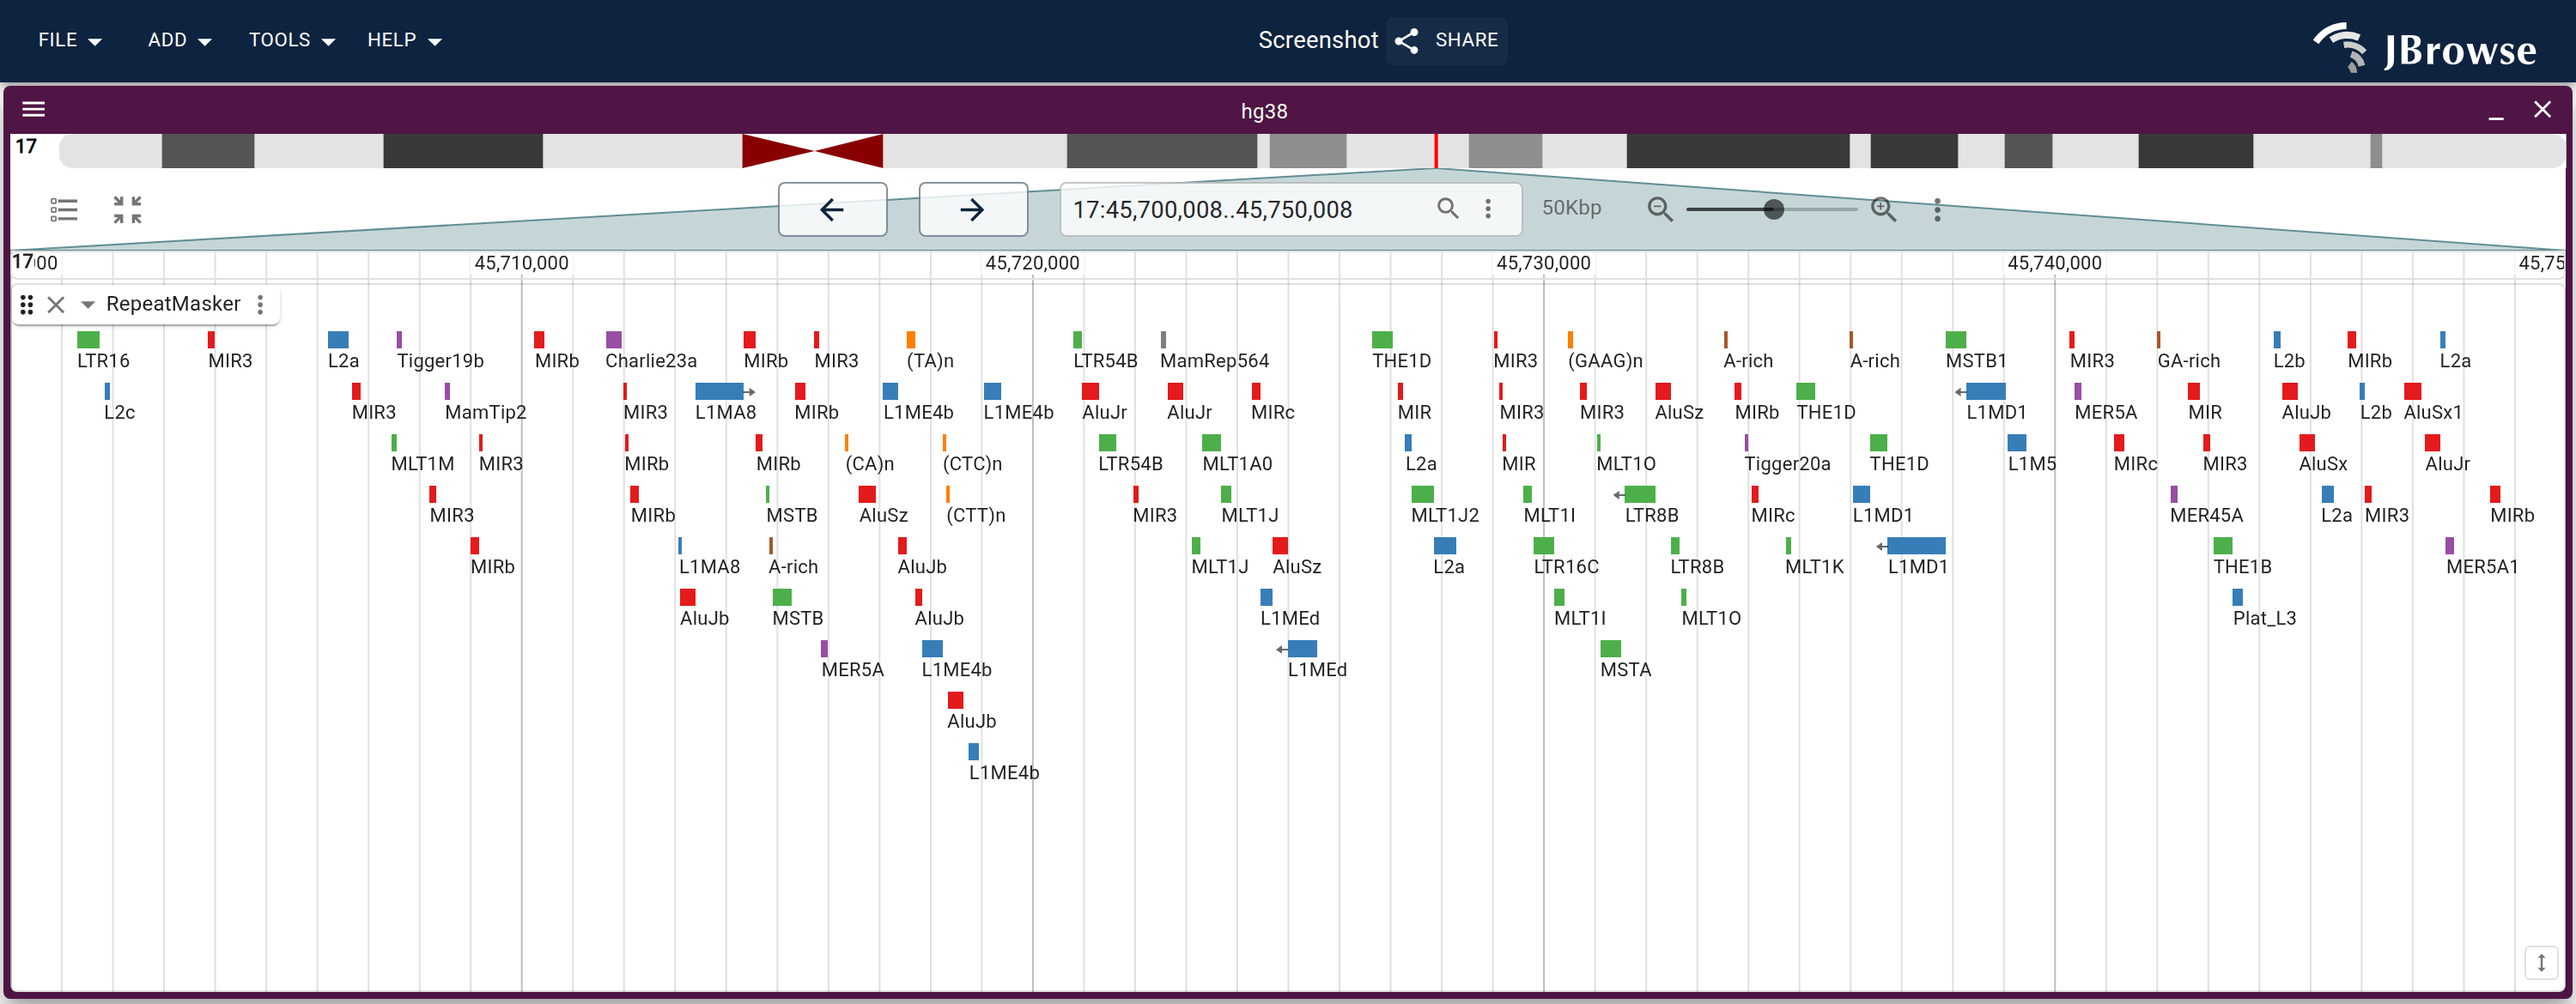
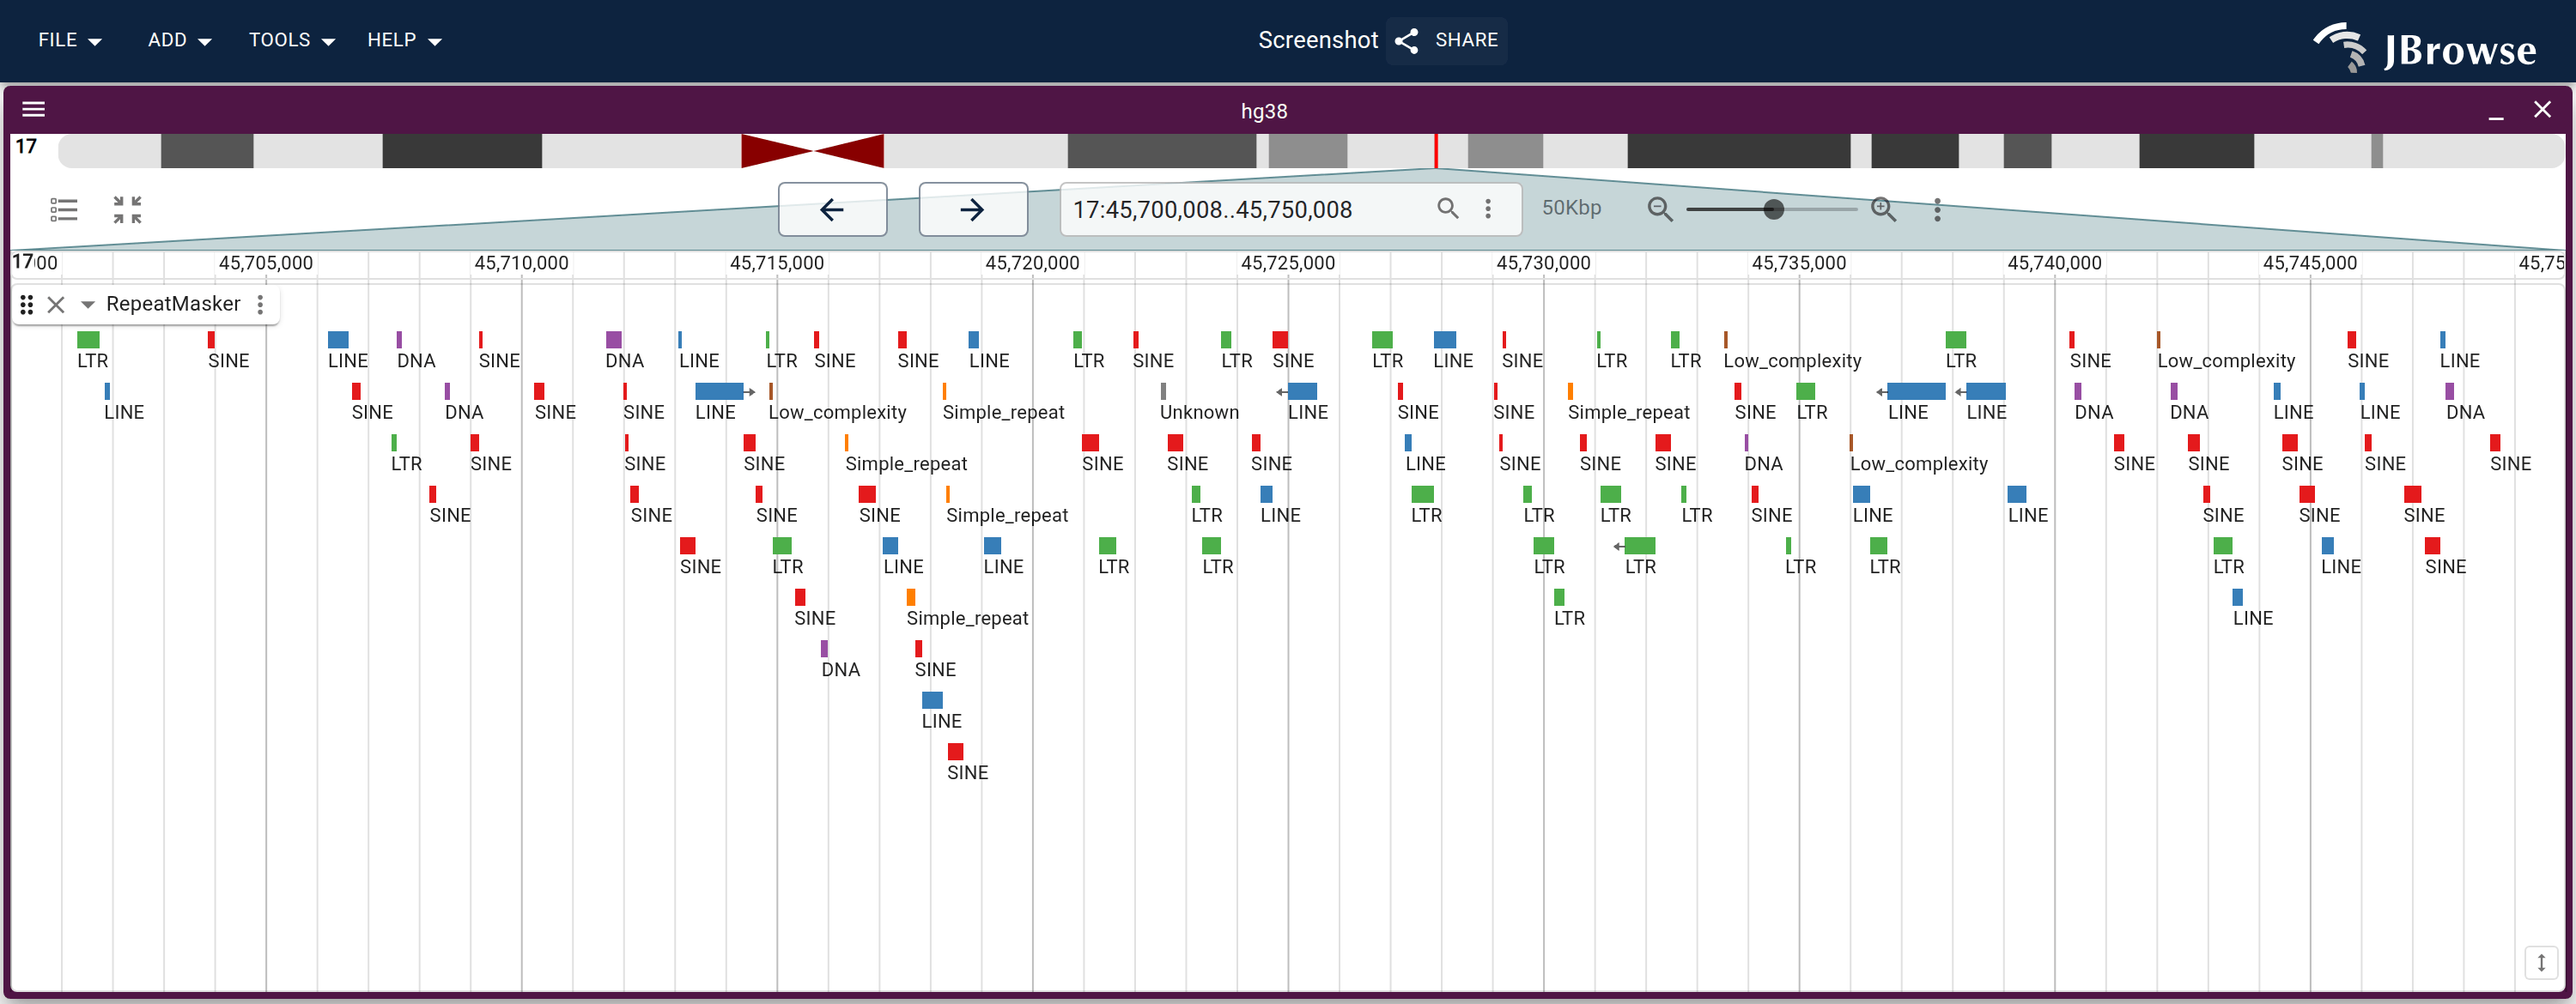
docs(figures): make the color-by-category recipe figure its own legend
Reviewer on cookbook_color_by_type: "unclear what the coloring is. need
legend". Nothing draws a key for a jexl color callback, and an overlay
legend would be six swatches hand-placed over a layout that moves, so
each feature is labeled with the field the color is keyed on
(labels.name = repClass): every red block reads SINE, every blue LINE,
green LTR, purple DNA, orange Simple_repeat, brown Low_complexity, grey
Unknown. The repeat family names it replaces (AluJb, MIR3, L2a) are the
detail the recipe is not about, and are still in the feature details.

The display config had to move onto the track's own displays entry. The
spec form routes an inline key on the view's tracks entry onto the
display config only when isConfigurationSlot says so, and labels is a
sub-schema rather than a leaf slot, so written there it was dropped in
silence — the first regen came back unchanged.

Claude-Session: https://claude.ai/code/session_01TcfdgrcPWPN7HSGHfcRjTg

diff --git a/website/src/lib/galleryLinks.generated.ts b/website/src/lib/galleryLinks.generated.ts
@@ -284,6 +284,6 @@ export const specSessionUrls: Record<string, string> = {
   "pangenome/rgfa_launch_out_menu": "?config=test_data/graphgenomeview/ecoli_pangenome.json&session=spec-%7B%22views%22%3A%5B%7B%22id%22%3A%22launch_out_graph%22%2C%22type%22%3A%22GraphGenomeView%22%2C%22loadedTrackId%22%3A%22ecoli_minigraph_segments%22%2C%22loadedRegion%22%3A%7B%22refName%22%3A%22chr%22%2C%22assemblyName%22%3A%22K12%22%2C%22start%22%3A4400000%2C%22end%22%3A4450000%7D%2C%22layoutMode%22%3A%22force%22%2C%22colorScheme%22%3A%22stable-rank%22%7D%5D%7D&sessionName=Screenshot",
   "pangenome/rgfa_strain_launch": "?config=test_data/graphgenomeview/ecoli_pangenome.json&session=spec-%7B%22views%22%3A%5B%7B%22id%22%3A%22pks_graph%22%2C%22type%22%3A%22GraphGenomeView%22%2C%22loadedTrackId%22%3A%22ecoli_minigraph_segments%22%2C%22loadedRegion%22%3A%7B%22refName%22%3A%22chr%22%2C%22assemblyName%22%3A%22K12%22%2C%22start%22%3A2056000%2C%22end%22%3A2064000%7D%2C%22layoutMode%22%3A%22force%22%2C%22colorScheme%22%3A%22stable-rank%22%7D%5D%7D&sessionName=Screenshot",
   "cookbook_color_by_strand": "?config=test_data/config_demo.json&session=spec-%7B%22views%22%3A%5B%7B%22type%22%3A%22LinearGenomeView%22%2C%22assembly%22%3A%22hg38%22%2C%22loc%22%3A%22chr17%3A7%2C400%2C000-7%2C700%2C000%22%2C%22tracks%22%3A%5B%7B%22trackId%22%3A%22ncbi_refseq_109_hg38%22%2C%22height%22%3A260%2C%22color%22%3A%22jexl%3Afeature.strand%3D%3D1%3F'%231f77b4'%3A'%23d62728'%22%7D%5D%7D%5D%7D&sessionName=Screenshot",
-  "cookbook_color_by_type": "?config=test_data/config_demo.json&session=spec-%7B%22sessionTracks%22%3A%5B%7B%22type%22%3A%22FeatureTrack%22%2C%22trackId%22%3A%22rmsk_hg38_ucsc%22%2C%22name%22%3A%22RepeatMasker%22%2C%22assemblyNames%22%3A%5B%22hg38%22%5D%2C%22adapter%22%3A%7B%22type%22%3A%22BedTabixAdapter%22%2C%22bedGzLocation%22%3A%7B%22uri%22%3A%22https%3A%2F%2Fjbrowse.org%2Fucsc%2Fhg38%2Frmsk.bed.gz%22%2C%22locationType%22%3A%22UriLocation%22%7D%2C%22index%22%3A%7B%22indexType%22%3A%22CSI%22%2C%22location%22%3A%7B%22uri%22%3A%22https%3A%2F%2Fjbrowse.org%2Fucsc%2Fhg38%2Frmsk.bed.gz.csi%22%2C%22locationType%22%3A%22UriLocation%22%7D%7D%7D%7D%5D%2C%22views%22%3A%5B%7B%22type%22%3A%22LinearGenomeView%22%2C%22assembly%22%3A%22hg38%22%2C%22loc%22%3A%22chr17%3A45%2C700%2C000-45%2C750%2C000%22%2C%22tracks%22%3A%5B%7B%22trackId%22%3A%22rmsk_hg38_ucsc%22%2C%22type%22%3A%22LinearBasicDisplay%22%2C%22height%22%3A380%2C%22color%22%3A%22jexl%3A%7BSINE%3A'%23e41a1c'%2CLINE%3A'%23377eb8'%2CLTR%3A'%234daf4a'%2CDNA%3A'%23984ea3'%2CSimple_repeat%3A'%23ff7f00'%2CLow_complexity%3A'%23a65628'%7D%5Bget(feature%2C'repClass')%5D%20%7C%7C%20'gray'%22%7D%5D%7D%5D%7D&sessionName=Screenshot",
+  "cookbook_color_by_type": "?config=test_data/config_demo.json&session=spec-%7B%22sessionTracks%22%3A%5B%7B%22type%22%3A%22FeatureTrack%22%2C%22trackId%22%3A%22rmsk_hg38_ucsc%22%2C%22name%22%3A%22RepeatMasker%22%2C%22assemblyNames%22%3A%5B%22hg38%22%5D%2C%22adapter%22%3A%7B%22type%22%3A%22BedTabixAdapter%22%2C%22bedGzLocation%22%3A%7B%22uri%22%3A%22https%3A%2F%2Fjbrowse.org%2Fucsc%2Fhg38%2Frmsk.bed.gz%22%2C%22locationType%22%3A%22UriLocation%22%7D%2C%22index%22%3A%7B%22indexType%22%3A%22CSI%22%2C%22location%22%3A%7B%22uri%22%3A%22https%3A%2F%2Fjbrowse.org%2Fucsc%2Fhg38%2Frmsk.bed.gz.csi%22%2C%22locationType%22%3A%22UriLocation%22%7D%7D%7D%2C%22displays%22%3A%5B%7B%22type%22%3A%22LinearBasicDisplay%22%2C%22color%22%3A%22jexl%3A%7BSINE%3A'%23e41a1c'%2CLINE%3A'%23377eb8'%2CLTR%3A'%234daf4a'%2CDNA%3A'%23984ea3'%2CSimple_repeat%3A'%23ff7f00'%2CLow_complexity%3A'%23a65628'%7D%5Bget(feature%2C'repClass')%5D%20%7C%7C%20'gray'%22%2C%22labels%22%3A%7B%22name%22%3A%22jexl%3Aget(feature%2C'repClass')%22%7D%7D%5D%7D%5D%2C%22views%22%3A%5B%7B%22type%22%3A%22LinearGenomeView%22%2C%22assembly%22%3A%22hg38%22%2C%22loc%22%3A%22chr17%3A45%2C700%2C000-45%2C750%2C000%22%2C%22tracks%22%3A%5B%7B%22trackId%22%3A%22rmsk_hg38_ucsc%22%2C%22type%22%3A%22LinearBasicDisplay%22%2C%22height%22%3A380%7D%5D%7D%5D%7D&sessionName=Screenshot",
   "cookbook_multiwig": "?config=test_data/config_demo.json&session=spec-%7B%22sessionTracks%22%3A%5B%7B%22type%22%3A%22MultiQuantitativeTrack%22%2C%22trackId%22%3A%22cookbook_multiwig%22%2C%22name%22%3A%22PUR%20copy%20number%20(8%20samples)%22%2C%22assemblyNames%22%3A%5B%22hg38%22%5D%2C%22adapter%22%3A%7B%22type%22%3A%22MultiWiggleAdapter%22%2C%22subadapters%22%3A%5B%7B%22type%22%3A%22BigWigAdapter%22%2C%22name%22%3A%22HG01080%22%2C%22color%22%3A%22%230072B2%22%2C%22bigWigLocation%22%3A%7B%22uri%22%3A%22https%3A%2F%2Fjbrowse.org%2Fgenomes%2FGRCh38%2F1000g%2Fkidd_lab_cnv%2FPUR%2FHG01080.qm2.CN.1k.bw%22%2C%22locationType%22%3A%22UriLocation%22%7D%7D%2C%7B%22type%22%3A%22BigWigAdapter%22%2C%22name%22%3A%22HG01054%22%2C%22color%22%3A%22%23D55E00%22%2C%22bigWigLocation%22%3A%7B%22uri%22%3A%22https%3A%2F%2Fjbrowse.org%2Fgenomes%2FGRCh38%2F1000g%2Fkidd_lab_cnv%2FPUR%2FHG01054.qm2.CN.1k.bw%22%2C%22locationType%22%3A%22UriLocation%22%7D%7D%2C%7B%22type%22%3A%22BigWigAdapter%22%2C%22name%22%3A%22HG00739%22%2C%22color%22%3A%22%23009E73%22%2C%22bigWigLocation%22%3A%7B%22uri%22%3A%22https%3A%2F%2Fjbrowse.org%2Fgenomes%2FGRCh38%2F1000g%2Fkidd_lab_cnv%2FPUR%2FHG00739.qm2.CN.1k.bw%22%2C%22locationType%22%3A%22UriLocation%22%7D%7D%2C%7B%22type%22%3A%22BigWigAdapter%22%2C%22name%22%3A%22HG00553%22%2C%22color%22%3A%22%23CC79A7%22%2C%22bigWigLocation%22%3A%7B%22uri%22%3A%22https%3A%2F%2Fjbrowse.org%2Fgenomes%2FGRCh38%2F1000g%2Fkidd_lab_cnv%2FPUR%2FHG00553.qm2.CN.1k.bw%22%2C%22locationType%22%3A%22UriLocation%22%7D%7D%2C%7B%22type%22%3A%22BigWigAdapter%22%2C%22name%22%3A%22HG01070%22%2C%22color%22%3A%22%23E69F00%22%2C%22bigWigLocation%22%3A%7B%22uri%22%3A%22https%3A%2F%2Fjbrowse.org%2Fgenomes%2FGRCh38%2F1000g%2Fkidd_lab_cnv%2FPUR%2FHG01070.qm2.CN.1k.bw%22%2C%22locationType%22%3A%22UriLocation%22%7D%7D%2C%7B%22type%22%3A%22BigWigAdapter%22%2C%22name%22%3A%22HG00554%22%2C%22color%22%3A%22%2356B4E9%22%2C%22bigWigLocation%22%3A%7B%22uri%22%3A%22https%3A%2F%2Fjbrowse.org%2Fgenomes%2FGRCh38%2F1000g%2Fkidd_lab_cnv%2FPUR%2FHG00554.qm2.CN.1k.bw%22%2C%22locationType%22%3A%22UriLocation%22%7D%7D%2C%7B%22type%22%3A%22BigWigAdapter%22%2C%22name%22%3A%22HG00551%22%2C%22color%22%3A%22%238B008B%22%2C%22bigWigLocation%22%3A%7B%22uri%22%3A%22https%3A%2F%2Fjbrowse.org%2Fgenomes%2FGRCh38%2F1000g%2Fkidd_lab_cnv%2FPUR%2FHG00551.qm2.CN.1k.bw%22%2C%22locationType%22%3A%22UriLocation%22%7D%7D%2C%7B%22type%22%3A%22BigWigAdapter%22%2C%22name%22%3A%22HG01083%22%2C%22color%22%3A%22%23666666%22%2C%22bigWigLocation%22%3A%7B%22uri%22%3A%22https%3A%2F%2Fjbrowse.org%2Fgenomes%2FGRCh38%2F1000g%2Fkidd_lab_cnv%2FPUR%2FHG01083.qm2.CN.1k.bw%22%2C%22locationType%22%3A%22UriLocation%22%7D%7D%5D%7D%7D%5D%2C%22views%22%3A%5B%7B%22type%22%3A%22LinearGenomeView%22%2C%22assembly%22%3A%22hg38%22%2C%22loc%22%3A%22chr1%3A103%2C540%2C000-103%2C770%2C000%22%2C%22tracks%22%3A%5B%7B%22trackId%22%3A%22ncbi_refseq_109_hg38%22%2C%22height%22%3A70%7D%2C%7B%22trackId%22%3A%22cookbook_multiwig%22%2C%22height%22%3A480%2C%22defaultRendering%22%3A%22multirowline%22%2C%22minScore%22%3A0%2C%22maxScore%22%3A5%7D%5D%7D%5D%7D&sessionName=Screenshot"
 }

diff --git a/website/scripts/specs/cookbook.ts b/website/scripts/specs/cookbook.ts
@@ -100,7 +100,35 @@ export const cookbookSpecs: ScreenshotSpec[] = [
     mode: 'url',
     name: 'cookbook_color_by_type',
     url: sessionSpec(DEMO_CONFIG, {
-      sessionTracks: [HG38_RMSK_TRACK],
+      sessionTracks: [
+        {
+          ...HG38_RMSK_TRACK,
+          displays: [
+            {
+              type: 'LinearBasicDisplay',
+              color: RMSK_CLASS_COLOR,
+              // THE FIGURE IS ITS OWN LEGEND (reviewer: "unclear what the
+              // coloring is. need legend"). Nothing draws a key for a jexl
+              // color callback, and an overlay legend would be six swatches
+              // hand-placed over a layout that moves. Labelling each feature
+              // with the field the color is keyed on says the same thing from
+              // inside the app: every red block reads SINE and every blue one
+              // LINE, so the mapping is on screen beside the color. The repeat
+              // names this replaces (AluJb, MIR3, L2a) are the family, which
+              // the recipe is not about and which a non-specialist cannot
+              // decode anyway — they are still in the feature details popup.
+              //
+              // ON THE TRACK'S OWN displays, not on the view's tracks entry,
+              // which is where the color used to sit: the spec form routes an
+              // inline key onto the display config only when `isConfigurationSlot`
+              // says so, and `labels` is a sub-schema rather than a leaf slot,
+              // so written there it was dropped in silence — the regen came
+              // back with the repeat names still on it.
+              labels: { name: "jexl:get(feature,'repClass')" },
+            },
+          ],
+        },
+      ],
       views: [
         {
           type: 'LinearGenomeView',
@@ -109,11 +137,8 @@ export const cookbookSpecs: ScreenshotSpec[] = [
           tracks: [
             {
               trackId: 'rmsk_hg38_ucsc',
-              // a sessionTracks entry, so the recipe builder has no track
-              // config to read the display off — name it here
               type: 'LinearBasicDisplay',
               height: 380,
-              color: RMSK_CLASS_COLOR,
             },
           ],
         },

diff --git a/website/docs/cookbook.md b/website/docs/cookbook.md
@@ -272,7 +272,7 @@ instance, carries a `repClass` column:
 }
 ```
 
-<Figure caption="UCSC RepeatMasker over a 17q21 window with the lookup table above: every repeat takes the color of its repClass, and classes not in the table fall through to gray." src="/img/cookbook_color_by_type.png"/>
+<Figure caption="UCSC RepeatMasker over a 17q21 window with the lookup table above: every repeat takes the color of its repClass, and classes not in the table fall through to gray. Each feature is labeled with the same repClass the color is keyed on, so the figure carries its own key — the label is set with a second callback, labels.name." src="/img/cookbook_color_by_type.png"/>
 
 A lookup table is only as good as its keys, and an annotation pipeline's own
 documentation is not always an accurate list of what it emits, since a pipeline
